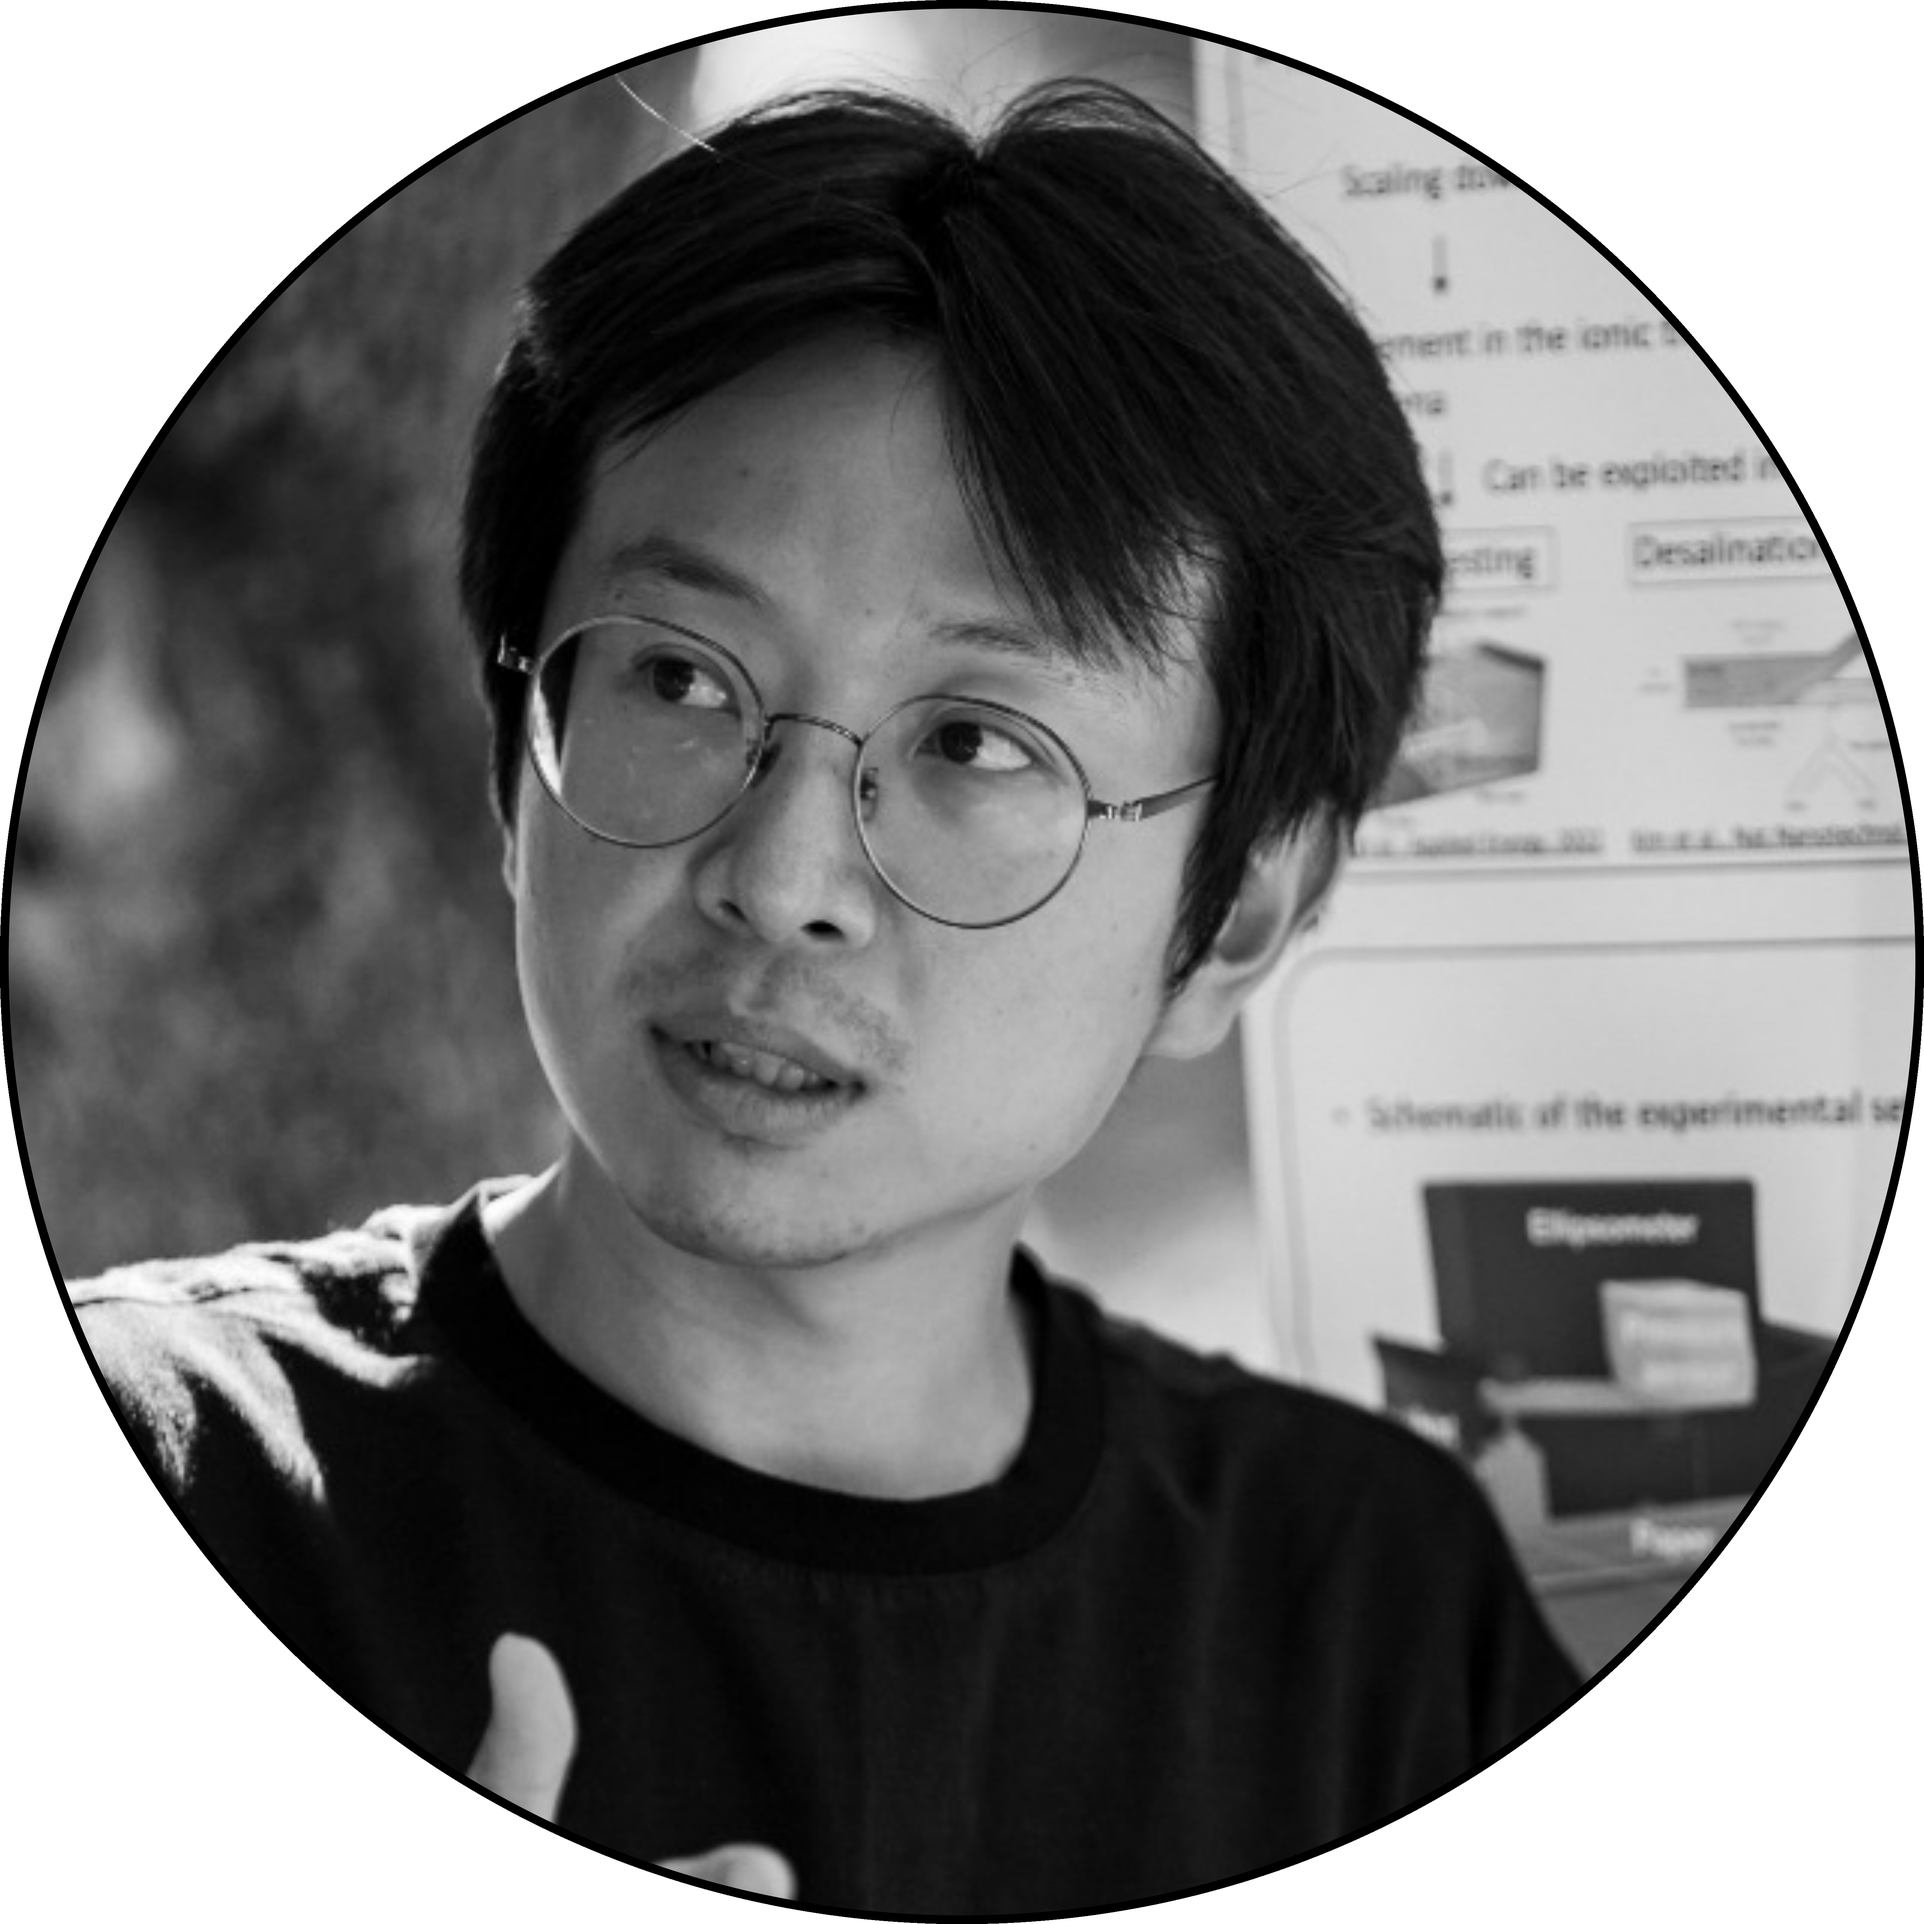
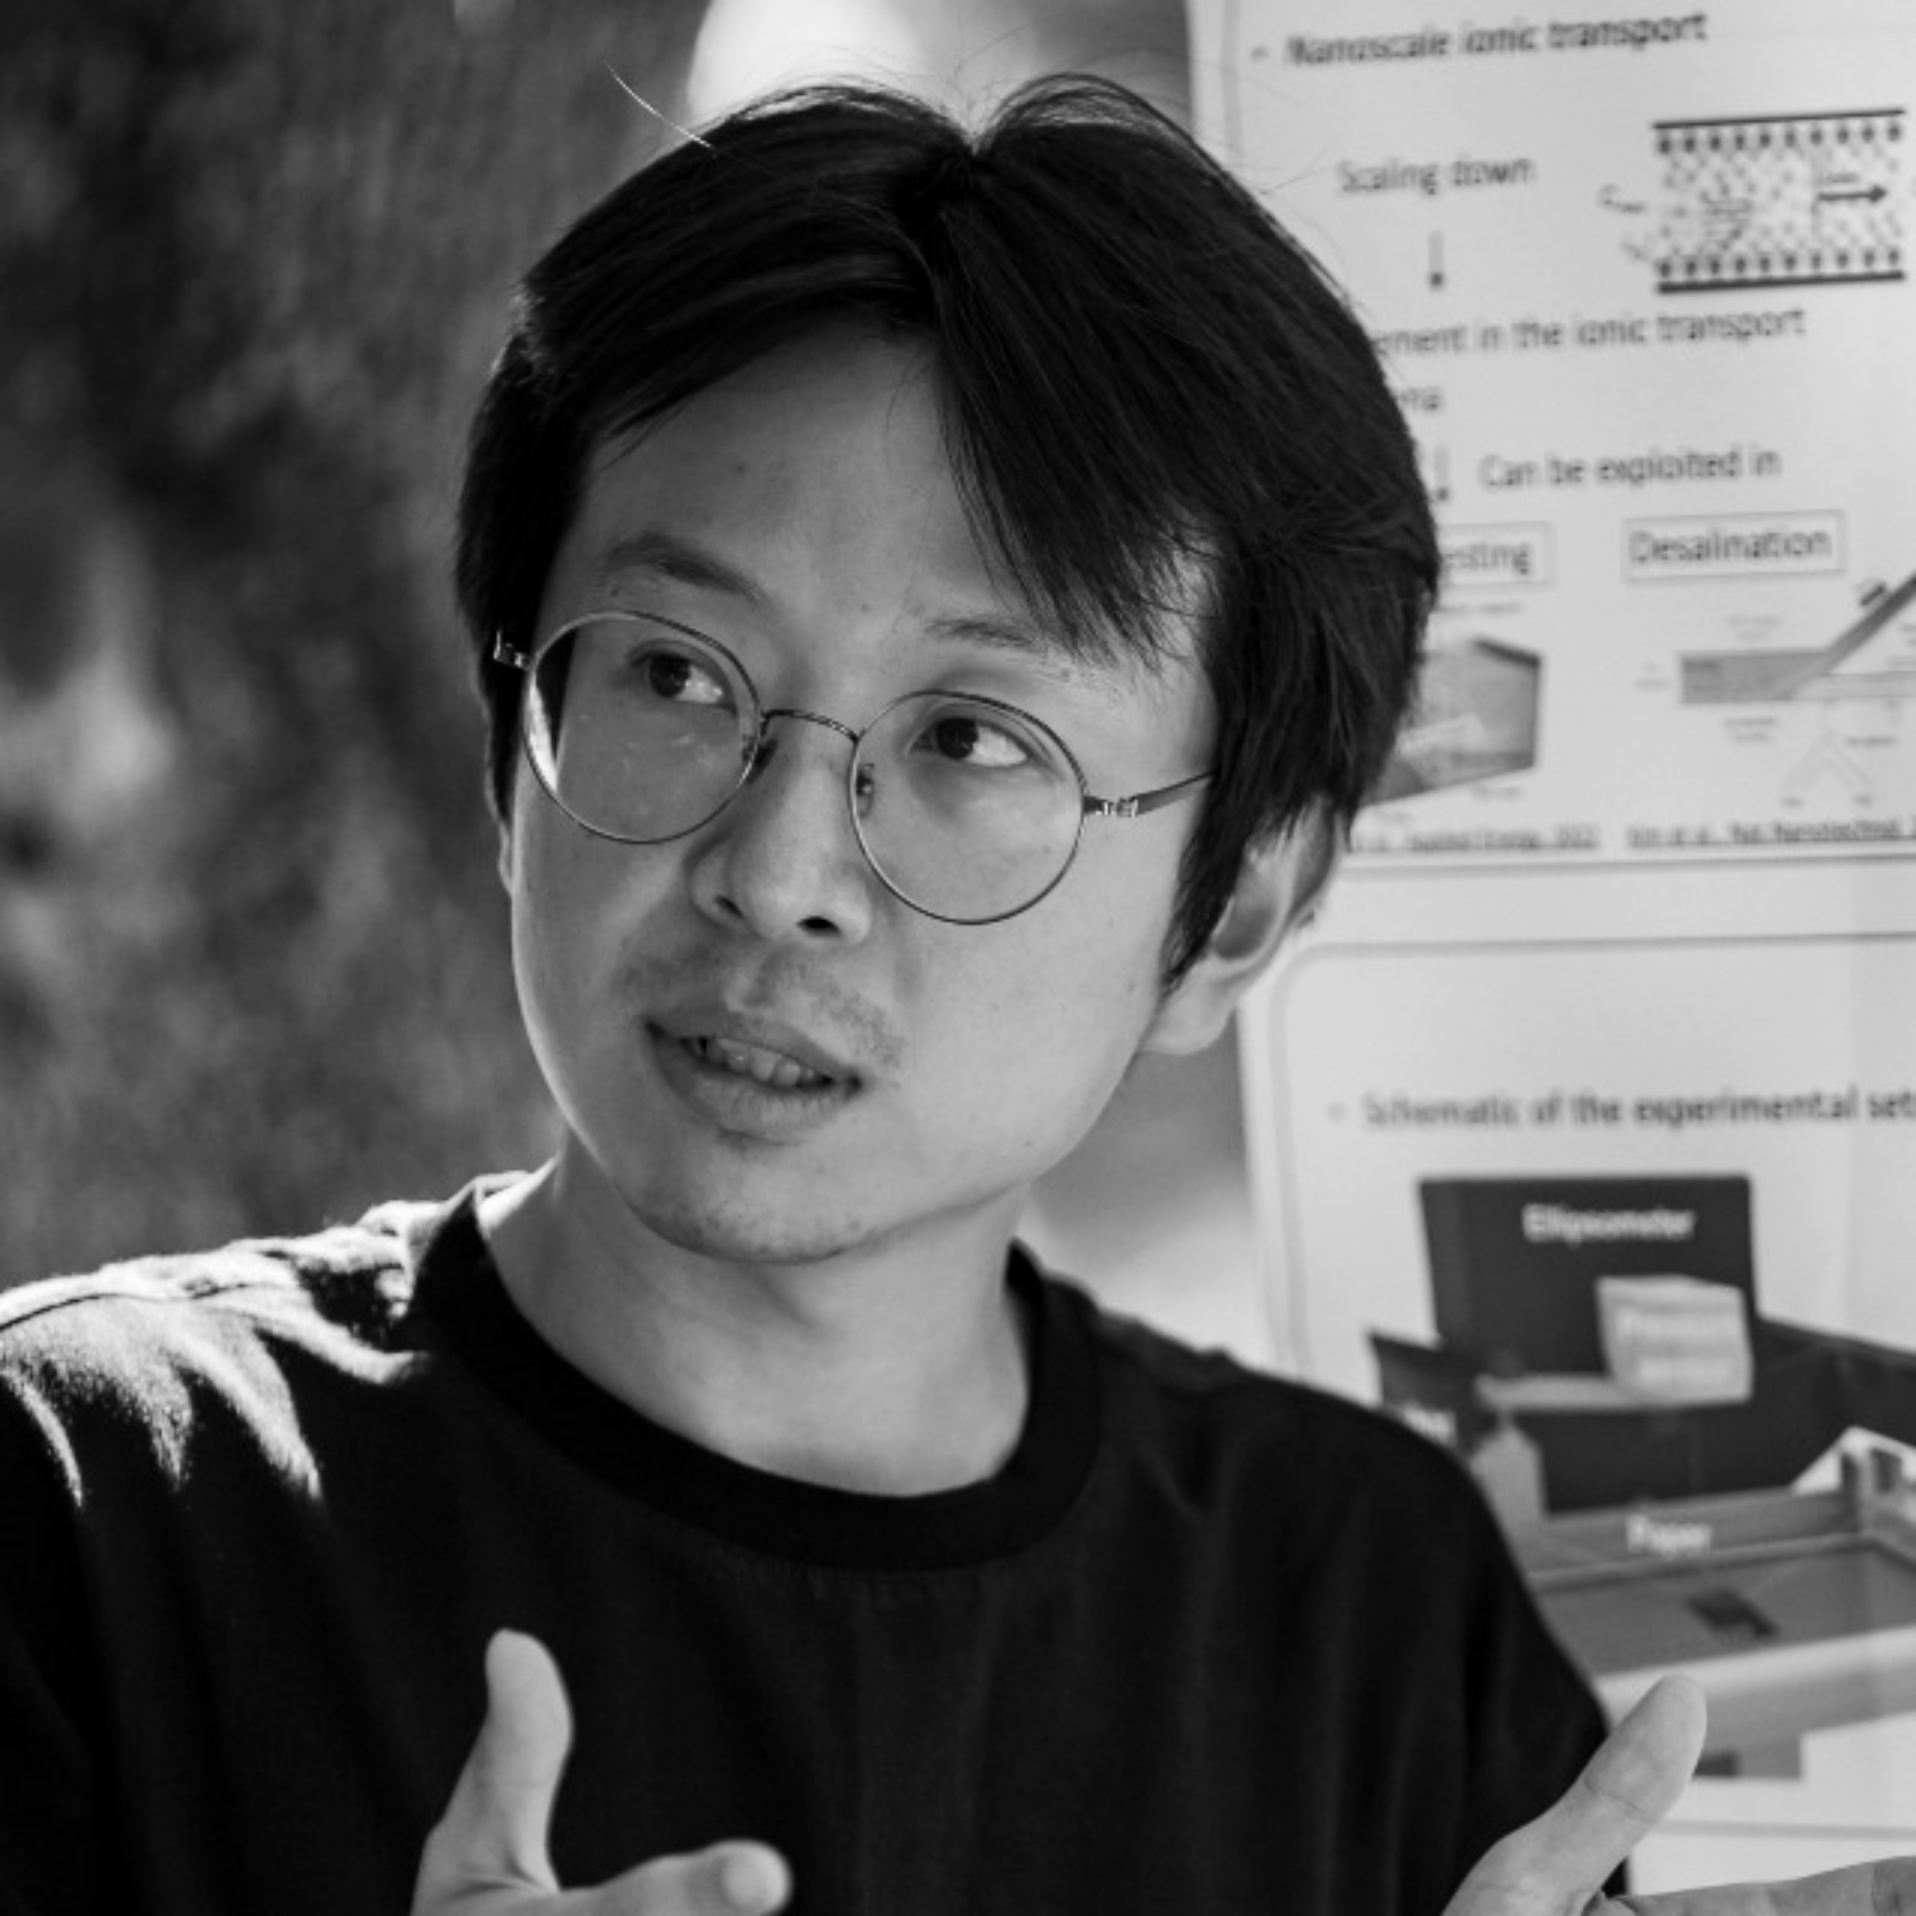
changes

diff --git a/_pages/about.md b/_pages/about.md
@@ -7,11 +7,11 @@ subtitle: <a href='#'>Affiliations</a>. Address. Contacts. Motto. Etc.
 profile:
   align: right
   image: prof_pic.jpg
-  image_circular: true # crops the image to make it circular
-  more_info: >
-    <p>555 your office number</p>
-    <p>123 your address street</p>
-    <p>Your City, State 12345</p>
+  image_circular: false # crops the image to make it circular
+  # more_info: >
+  #   <p>555 your office number</p>
+  #   <p>123 your address street</p>
+  #   <p>Your City, State 12345 test</p>
 
 selected_papers: true # includes a list of papers marked as "selected={true}"
 social: true # includes social icons at the bottom of the page
